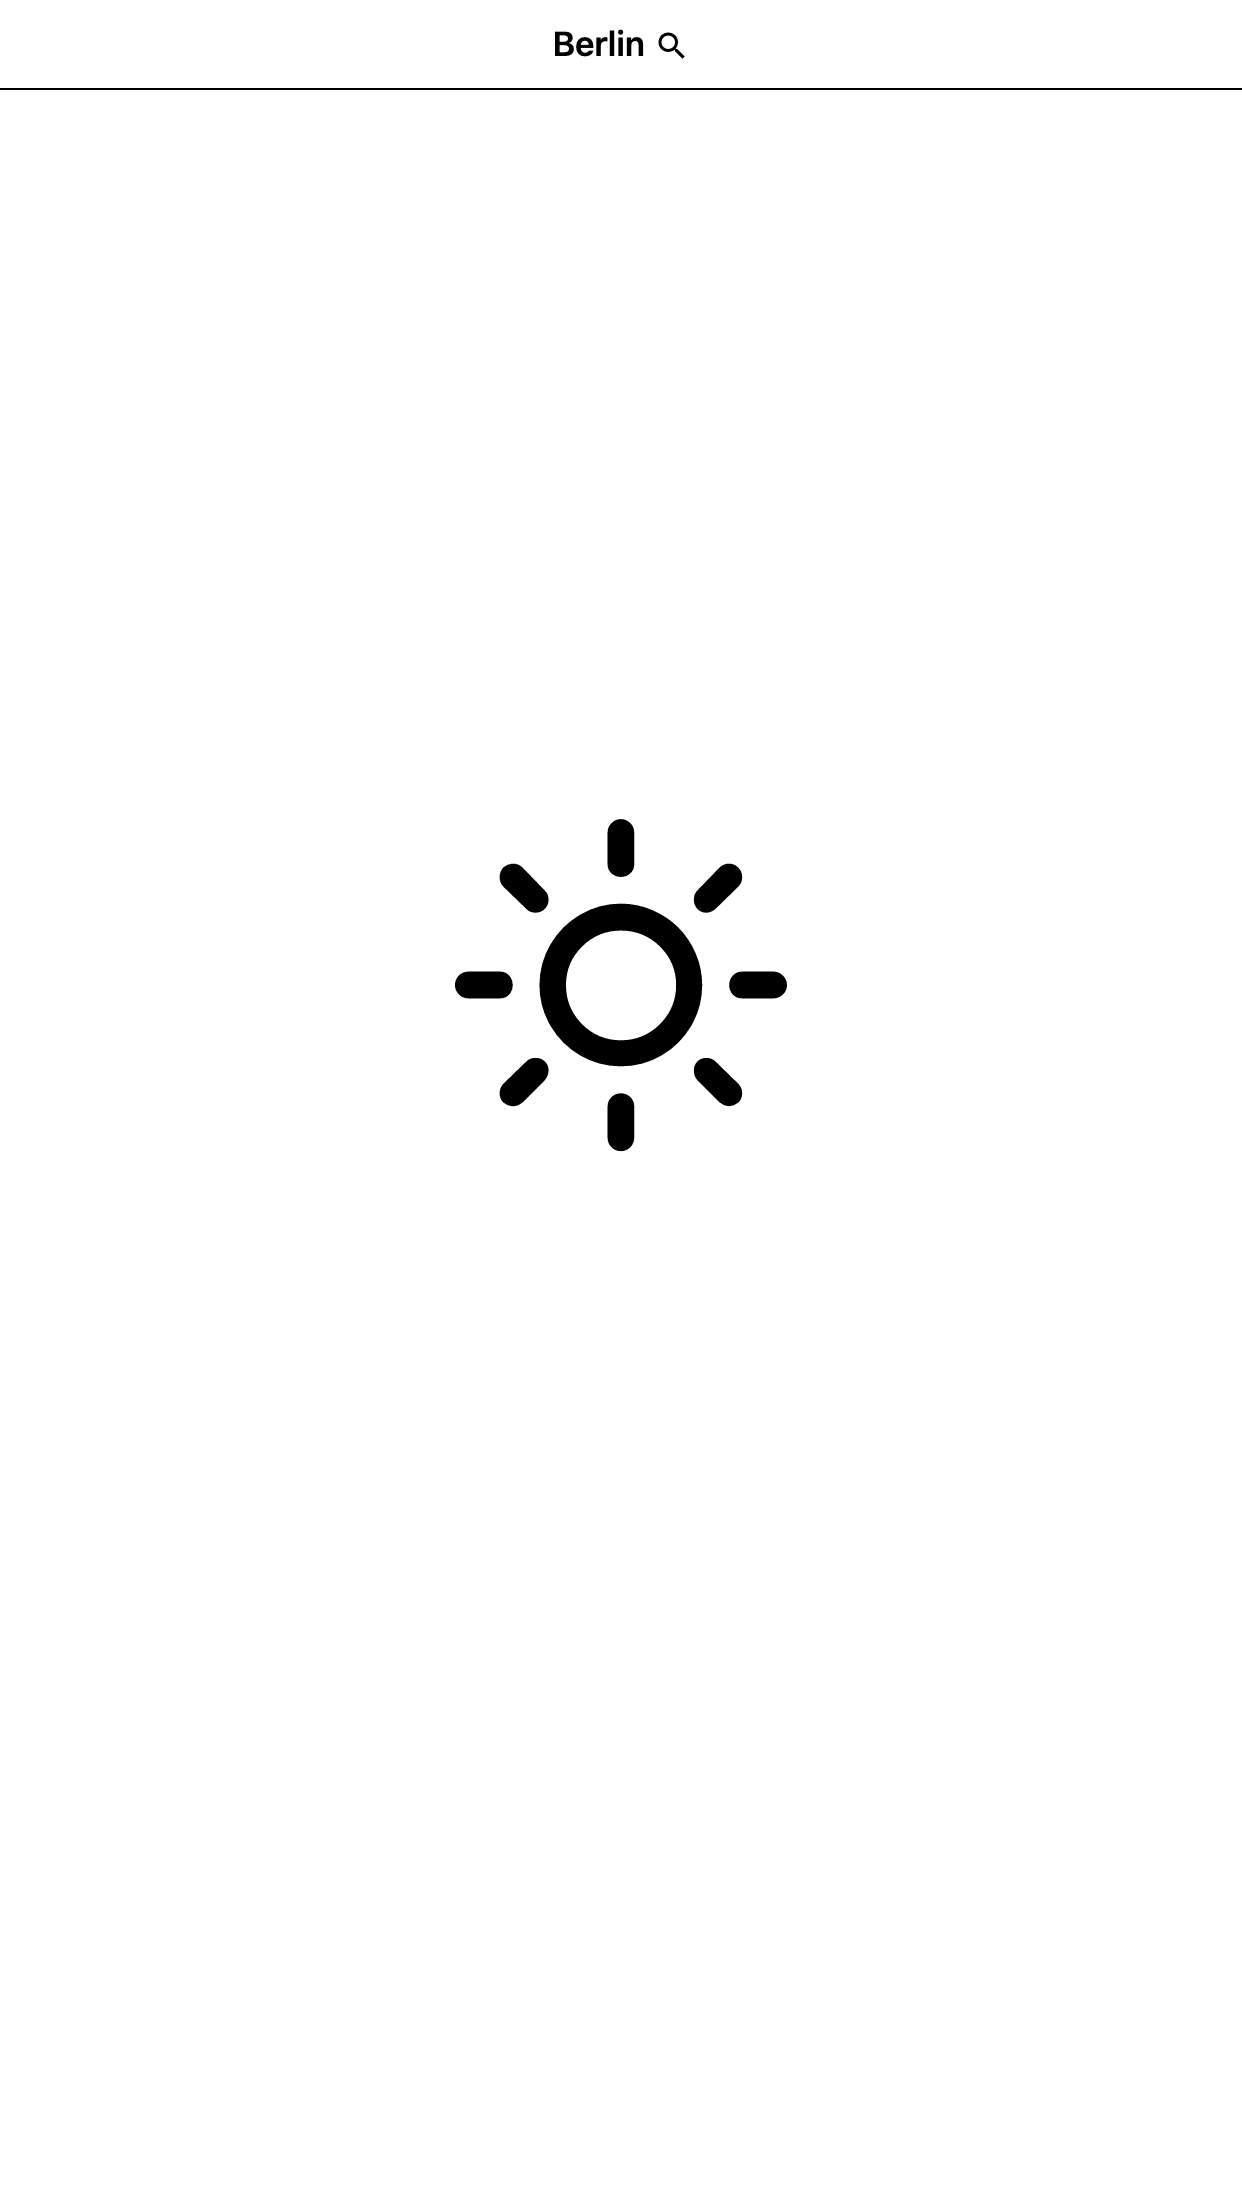
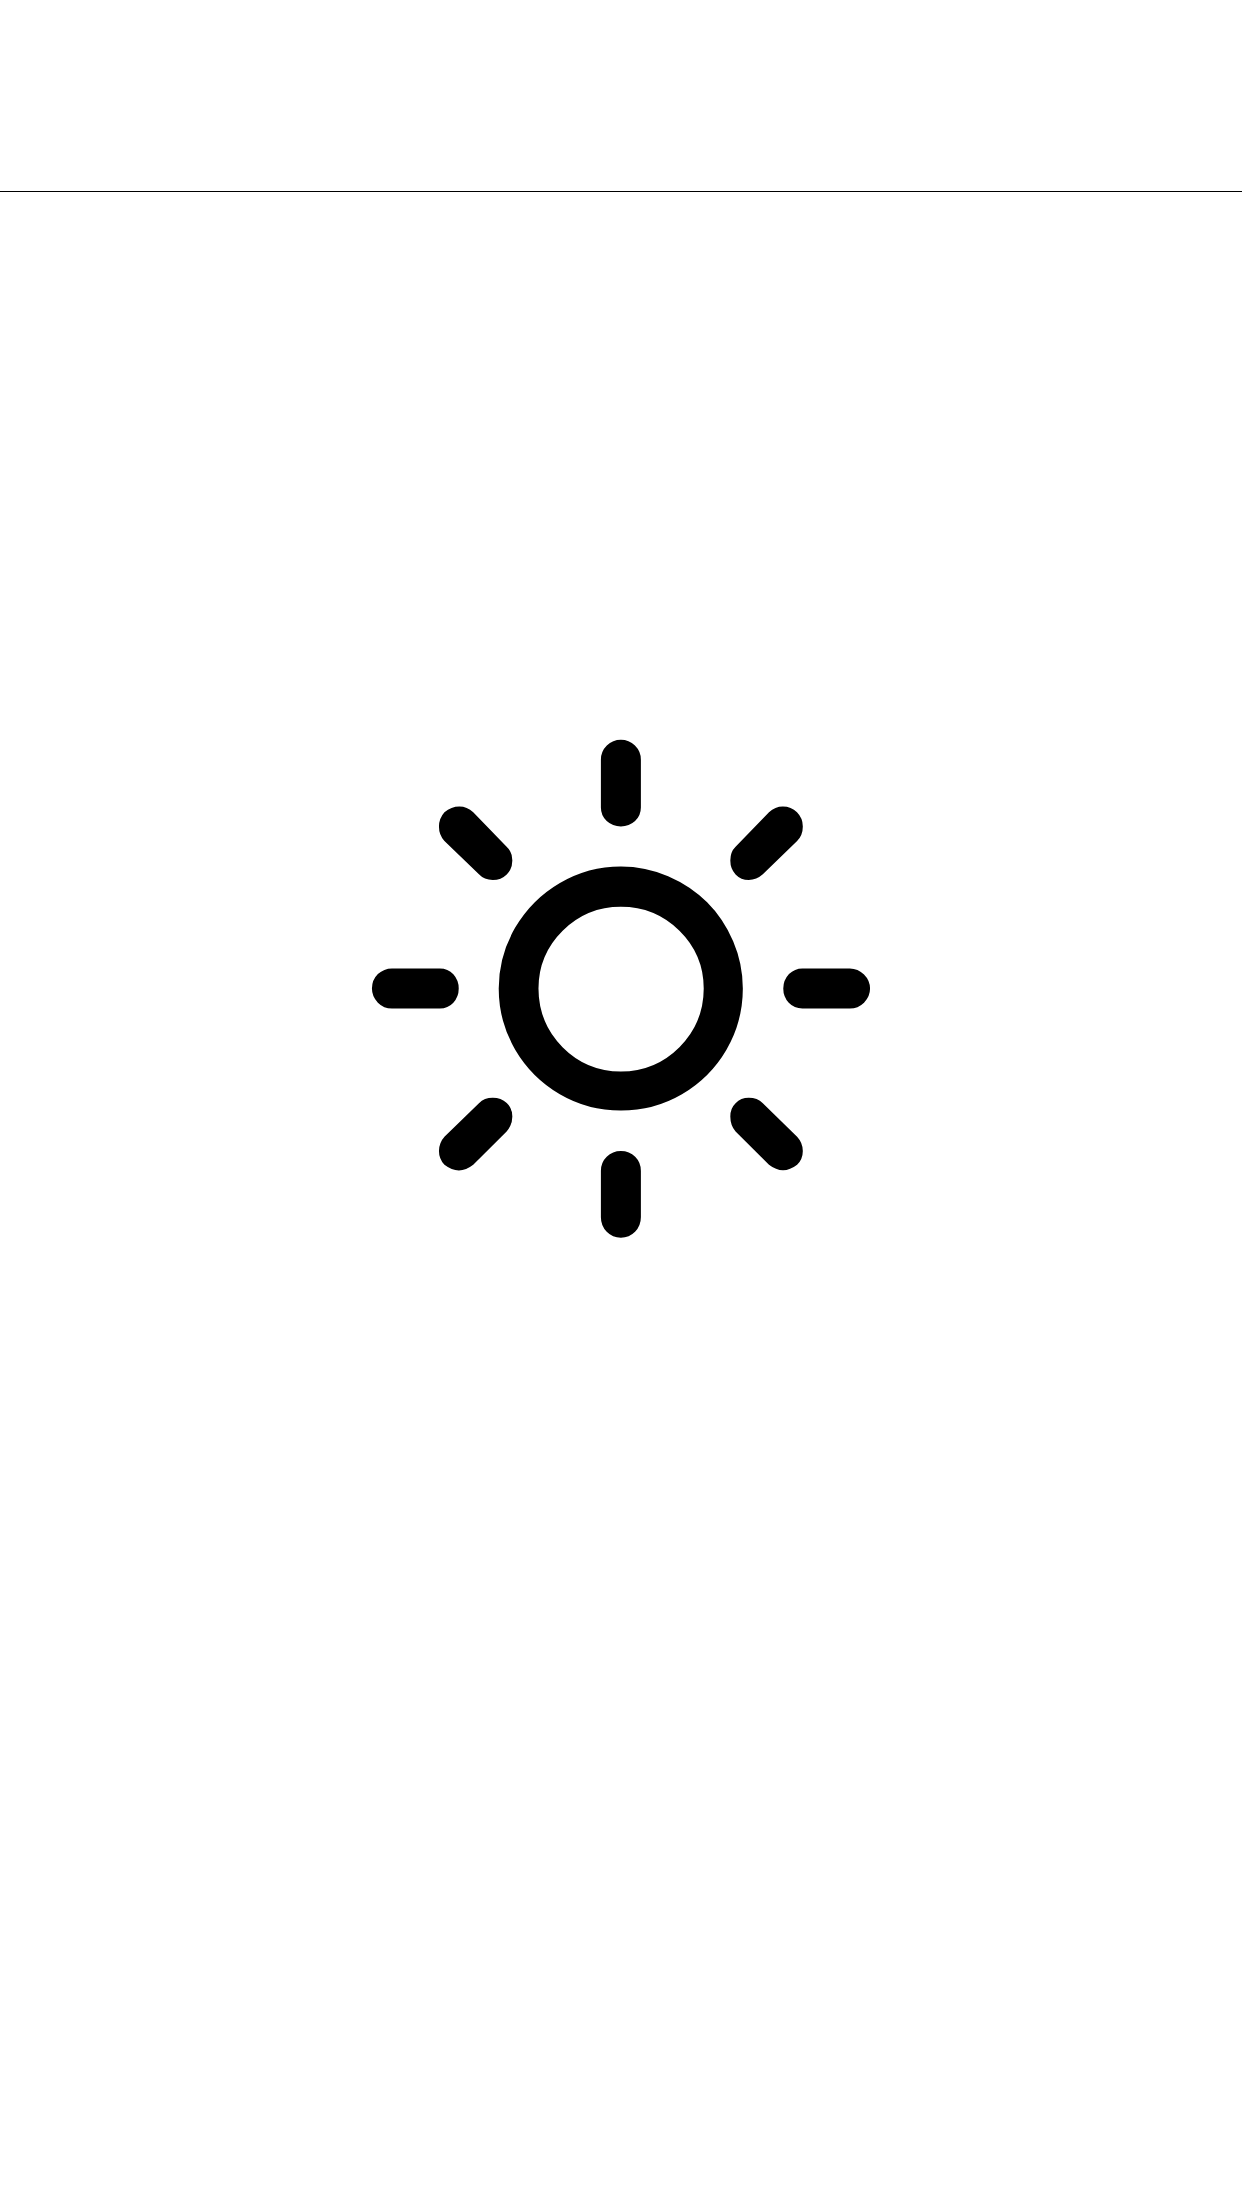
Fix startup image for almost all iOS devices

Changed region(s): [[0.306, 0.3125, 0.7037, 0.5625], [0.4283, 0.0, 0.5201, 0.0312]]

diff --git a/index.html b/index.html
@@ -17,26 +17,50 @@
     <meta name="apple-mobile-web-app-capable" content="yes">
     <meta name="apple-mobile-web-app-status-bar-style" content="#ffffff">
     <meta name="apple-mobile-web-app-title" content="Weatherr">
-    <link rel="apple-touch-startup-image" media="(device-width: 320px) and (device-height: 568px)" href="startup-image/startup-image-640,1136.png">
-    <link rel="apple-touch-startup-image" media="(device-width: 375px) and (device-height: 667px)" href="startup-image/startup-image-750,1334.png">
-    <link rel="apple-touch-startup-image" media="(device-width: 414px) and (device-height: 896px)" href="startup-image/startup-image-828,1792.png">
-    <link rel="apple-touch-startup-image" media="(device-width: 562px) and (device-height: 1218px)" href="startup-image/startup-image-1125,2436.png">
-    <link rel="apple-touch-startup-image" media="(device-width: 568px) and (device-height: 320px)" href="startup-image/startup-image-1136,640.png">
-    <link rel="apple-touch-startup-image" media="(device-width: 621px) and (device-height: 1104px)" href="startup-image/startup-image-1242,2208.png">
-    <link rel="apple-touch-startup-image" media="(device-width: 621px) and (device-height: 1344px)" href="startup-image/startup-image-1242,2688.png">
-    <link rel="apple-touch-startup-image" media="(device-width: 667px) and (device-height: 375px)" href="startup-image/startup-image-1334,750.png">
-    <link rel="apple-touch-startup-image" media="(device-width: 768px) and (device-height: 1024px)" href="startup-image/startup-image-1536,2048.png">
-    <link rel="apple-touch-startup-image" media="(device-width: 834px) and (device-height: 1112px)" href="startup-image/startup-image-1668,2224.png">
-    <link rel="apple-touch-startup-image" media="(device-width: 834px) and (device-height: 1194px)" href="startup-image/startup-image-1668,2388.png">
-    <link rel="apple-touch-startup-image" media="(device-width: 896px) and (device-height: 414px)" href="startup-image/startup-image-1792,828.png">
-    <link rel="apple-touch-startup-image" media="(device-width: 1024px) and (device-height: 768px)" href="startup-image/startup-image-2048,1536.png">
-    <link rel="apple-touch-startup-image" media="(device-width: 1024px) and (device-height: 1366px)" href="startup-image/startup-image-2048,2732.png">
-    <link rel="apple-touch-startup-image" media="(device-width: 1104px) and (device-height: 621px)" href="startup-image/startup-image-2208,1242.png">
-    <link rel="apple-touch-startup-image" media="(device-width: 1112px) and (device-height: 834px)" href="startup-image/startup-image-2224,1668.png">
-    <link rel="apple-touch-startup-image" media="(device-width: 1194px) and (device-height: 834px)" href="startup-image/startup-image-2388,1668.png">
-    <link rel="apple-touch-startup-image" media="(device-width: 1218px) and (device-height: 562px)" href="startup-image/startup-image-2436,1125.png">
-    <link rel="apple-touch-startup-image" media="(device-width: 1344px) and (device-height: 621px)" href="startup-image/startup-image-2688,1242.png">
-    <link rel="apple-touch-startup-image" media="(device-width: 1366px) and (device-height: 1024px)" href="startup-image/startup-image-2732,2048.png">
+    <!-- iPhone SE  portrait -->
+    <link rel="apple-touch-startup-image" media="(device-width: 320px) and (device-height: 568px) and (-webkit-device-pixel-ratio: 2) and (orientation: portrait)" href="startup-image/startup-image-640,1136.png">
+    <!-- iPhone SE  landscape -->
+    <link rel="apple-touch-startup-image" media="(device-width: 320px) and (device-height: 568px) and (-webkit-device-pixel-ratio: 2) and (orientation: landscape)" href="startup-image/startup-image-1136,640.png">
+    <!-- iPhone 6s, 7, 8 portrait -->
+    <link rel="apple-touch-startup-image" media="(device-width: 375px) and (device-height: 667px) and (-webkit-device-pixel-ratio: 2) and (orientation: portrait)" href="startup-image/startup-image-750,1334.png">
+    <!-- iPhone 6s, 7, 8 landscape -->
+    <link rel="apple-touch-startup-image" media="(device-width: 375px) and (device-height: 667px) and (-webkit-device-pixel-ratio: 2) and (orientation: landscape)" href="startup-image/startup-image-1334,750.png">
+    <!-- iPhone XR  portrait -->
+    <link rel="apple-touch-startup-image" media="(device-width: 414px) and (device-height: 896px) and (-webkit-device-pixel-ratio: 3) and (orientation: portrait)" href="startup-image/startup-image-828,1792.png">
+    <!-- iPhone XR  landscape -->
+    <link rel="apple-touch-startup-image" media="(device-width: 414px) and (device-height: 896px) and (-webkit-device-pixel-ratio: 3) and (orientation: landscape)" href="startup-image/startup-image-1792,828.png">
+    <!-- iPhone XS Max  portrait -->
+    <link rel="apple-touch-startup-image" media="(device-width: 414px) and (device-height: 896px) and (-webkit-device-pixel-ratio: 3) and (orientation: portrait)" href="startup-image/startup-image-1242,2688.png">
+    <!-- iPhone XS Max  landscape -->
+    <link rel="apple-touch-startup-image" media="(device-width: 414px) and (device-height: 896px) and (-webkit-device-pixel-ratio: 3) and (orientation: landscape)" href="startup-image/startup-image-2688,1242.png">
+    <!-- iPhone 7 Plus, 8 Plus portrait -->
+    <link rel="apple-touch-startup-image" media="(device-width: 414px) and (device-height: 736px) and (-webkit-device-pixel-ratio: 3) and (orientation: portrait)" href="startup-image/startup-image-1242,2208.png">
+    <!-- iPhone 7 Plus, 8 Plus landscape -->
+    <link rel="apple-touch-startup-image" media="(device-width: 414px) and (device-height: 736px) and (-webkit-device-pixel-ratio: 3) and (orientation: landscape)" href="startup-image/startup-image-2208,1242.png">
+    <!-- iPhone 6s Plus portrait -->
+    <link rel="apple-touch-startup-image" media="(device-width: 375px) and (device-height: 667px) and (-webkit-device-pixel-ratio: 3) and (orientation: portrait)" href="startup-image/startup-image-1242,2208.png">
+    <!-- iPhone 6s Plus landscape -->
+    <link rel="apple-touch-startup-image" media="(device-width: 375px) and (device-height: 667px) and (-webkit-device-pixel-ratio: 3) and (orientation: landscape)" href="startup-image/startup-image-2208,1242.png">
+    <!-- 9.7" iPad portrait -->
+    <link rel="apple-touch-startup-image" media="(device-width: 768px) and (device-height: 1024px) and (-webkit-device-pixel-ratio: 2) and (orientation: portrait)" href="startup-image/startup-image-1536,2048.png">
+    <!-- 9.7" iPad landscape -->
+    <link rel="apple-touch-startup-image" media="(device-width: 768px) and (device-height: 1024px) and (-webkit-device-pixel-ratio: 2) and (orientation: landscape)" href="startup-image/startup-image-2048,1536.png">
+    <!-- 7.9" iPad mini 4 portrait -->
+    <link rel="apple-touch-startup-image" media="(device-width: 768px) and (device-height: 1024px) and (-webkit-device-pixel-ratio: 2) and (orientation: portrait)" href="startup-image/startup-image-1536,2048.png">
+    <!-- 7.9" iPad mini 4 landscape -->
+    <link rel="apple-touch-startup-image" media="(device-width: 768px) and (device-height: 1024px) and (-webkit-device-pixel-ratio: 2) and (orientation: landscape)" href="startup-image/startup-image-2048,1536.png">
+    <!-- 11" iPad Pro portrait -->
+    <link rel="apple-touch-startup-image" media="(device-width: 834px) and (device-height: 1194px) and (-webkit-device-pixel-ratio: 2) and (orientation: portrait)" href="startup-image/startup-image-1668,2388.png">
+    <!-- 11" iPad Pro landscape -->
+    <link rel="apple-touch-startup-image" media="(device-width: 834px) and (device-height: 1194px) and (-webkit-device-pixel-ratio: 2) and (orientation: landscape)" href="startup-image/startup-image-2388,1668.png">
+    <!-- 10.5" iPad Pro portrait -->
+    <link rel="apple-touch-startup-image" media="(device-width: 834px) and (device-height: 1112px) and (-webkit-device-pixel-ratio: 2) and (orientation: portrait)" href="startup-image/startup-image-1668,2224.png">
+    <!-- 10.5" iPad Pro landscape -->
+    <link rel="apple-touch-startup-image" media="(device-width: 834px) and (device-height: 1112px) and (-webkit-device-pixel-ratio: 2) and (orientation: landscape)" href="startup-image/startup-image-2224,1668.png">
+    <!-- 12.9" iPad Pro portrait -->
+    <link rel="apple-touch-startup-image" media="(device-width: 1024px) and (device-height: 1366px) and (-webkit-device-pixel-ratio: 2) and (orientation: portrait)" href="startup-image/startup-image-2048,2732.png">
+    <!-- 12.9" iPad Pro landscape -->
+    <link rel="apple-touch-startup-image" media="(device-width: 1024px) and (device-height: 1366px) and (-webkit-device-pixel-ratio: 2) and (orientation: landscape)" href="startup-image/startup-image-2732,2048.png">
   </head>
   <body>
     <!-- The app itself -->

diff --git a/startup-image.html b/startup-image.html
@@ -8,16 +8,26 @@
     <link rel="stylesheet" type="text/css" media="screen" href="node_modules/weather-icons/css/weather-icons.css" />
     <link rel="stylesheet" type="text/css" media="screen" href="main.css" nobundle>
   </head>
-  <body class="fonts-loaded">
+  <!-- 20px for the iOS status bar -->
+  <body class="fonts-loaded"  style="padding-top:20px; overflow: hidden;">
+    <script>
+      const params = new URLSearchParams(location.search)
+      const zoom = params.get('zoom') || 1
+      if (zoom) {
+        document.body.style.zoom = zoom;
+        document.body.style.setProperty('--zoom', zoom);
+      }
+    </script>
+    <style>
+      /* Make sure border is 1 physical pixel wide when zoomed in */
+      .navbar::after {
+        border-bottom-width: 2px;
+        transform: scaleY(calc(1 / (var(--zoom) * 4)));
+      }
+    </style>
     <main class="app">
       <div class="view">
         <nav class="navbar">
-          <h1 class="navbar-title">
-            <a class="weather-navbar-location" href="#my-location">
-              Berlin
-              <img src="search.svg" class="icon" alt="Change location">
-            </a>
-          </h1>
         </nav>
         <article class="page loading-page">
           <i class="wi wi-day-sunny loading-icon" style="animation: none;"></i>

diff --git a/main.css b/main.css
@@ -1,6 +1,20 @@
 html {
   font-family: -apple-system, SF Pro Text, SF UI Text, system-ui, Helvetica Neue, Helvetica, Arial, sans-serif;
   font-size: 14px;
+
+  --device-pixel-ratio: 1;
+}
+
+@media (-webkit-min-device-pixel-ratio: 2), (min-resolution: 2dppx) {
+  html {
+    --device-pixel-ratio: 2;
+  }
+}
+
+@media (-webkit-min-device-pixel-ratio: 3), (min-resolution: 3dppx) {
+  :root {
+    --device-pixel-ratio: 3;
+  }
 }
 
 html,
@@ -72,10 +86,20 @@ main {
   top: 0;
   right: 0;
   height: var(--navbar-height);
-  border-bottom: 0.5px solid black;
   display: flex;
   align-items: center;
   justify-content: center;
+}
+
+.navbar::after {
+  content: '';
+  position: absolute;
+  left: 0;
+  bottom: 0;
+  right: 0;
+  border-bottom: solid 1px black;
+  transform: scaleY(calc(1 / var(--device-pixel-ratio)));
+  transform-origin: center bottom;
 }
 
 .navbar-title {
